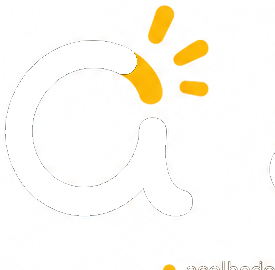
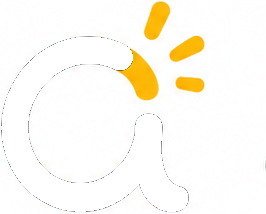
fix(marca): recorte limpo do board — sem resquício do slogan e das letras vizinhas

diff --git a/src/app/components/AppMark.tsx b/src/app/components/AppMark.tsx
@@ -14,8 +14,8 @@ const MARK_DARK = require('../../../assets/brand/aluza-mark-dark.png');
 // Jest resolves asset modules to a stub, so the real file's proportions get
 // a safe fallback there.
 const markSource = Image.resolveAssetSource(MARK_LIGHT) ?? {
-  width: 275,
-  height: 270,
+  width: 266,
+  height: 214,
 };
 
 export const MARK_COLORS = ALUZA_COLORS;

diff --git a/src/app/components/AppWordmark.tsx b/src/app/components/AppWordmark.tsx
@@ -8,8 +8,8 @@ const WORDMARK_LIGHT = require('../../../assets/brand/aluza-wordmark.png');
 const WORDMARK_DARK = require('../../../assets/brand/aluza-wordmark-dark.png');
 
 const wordSource = Image.resolveAssetSource(WORDMARK_LIGHT) ?? {
-  width: 485,
-  height: 223,
+  width: 474,
+  height: 167,
 };
 
 export const WORDMARK_RATIO =
